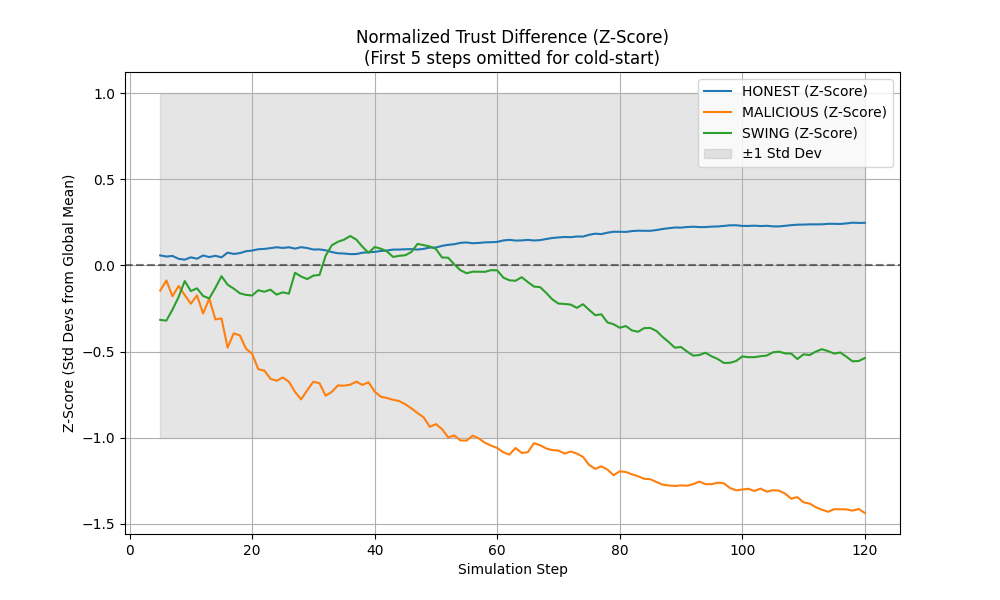
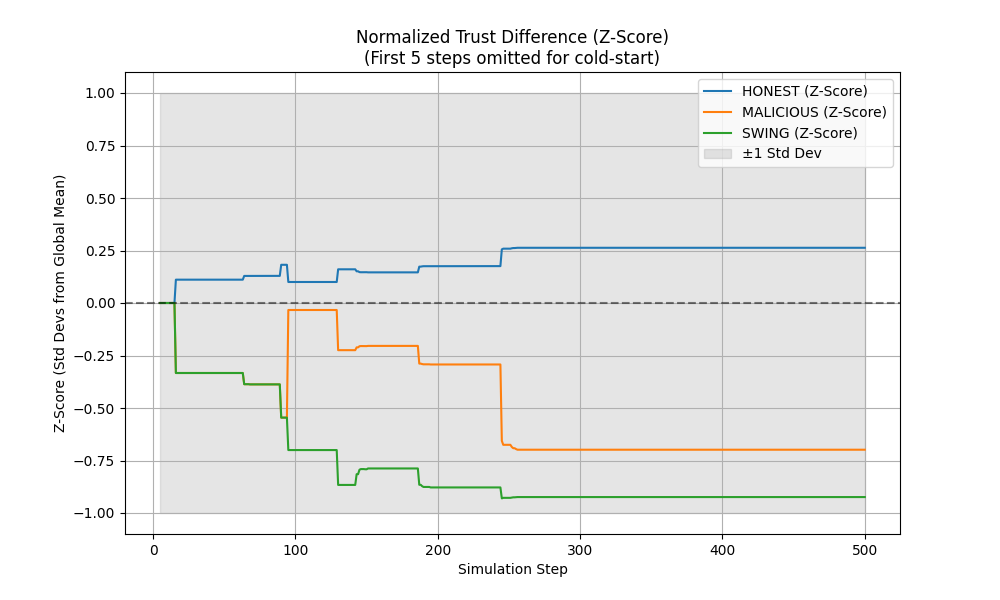
tip selection algorithm

diff --git a/iov-trust-prototype/blockchain/dag.py b/iov-trust-prototype/blockchain/dag.py
@@ -5,6 +5,7 @@ Stores trust updates.
 Not a real blockchain (no PoW/PoS, no hashing).
 """
 from typing import List, Dict
+import random
 from .block import Block
 
 class DAG:
@@ -14,25 +15,33 @@ class DAG:
         # For this prototype, we just link to the last N blocks added.
         self.tips: List[str] = [] 
 
-    def add_block(self, data, validator_id) -> Block:
+    def add_block(self, data, validator_id, n_parents: int = 2) -> Block:
         """
         Creates and adds a new block to the DAG.
-        Links to current 'tips' as parents.
+        Uses Tip Selection Algorithm (random selection of n_parents from current tips).
         """
-        # parents are the current tips. If genesis, empty list.
-        parents = list(self.tips)
+        # Tip Selection: Select n_parents from self.tips
+        available_tips = self.tips
+        if not available_tips:
+            parents = []
+        elif len(available_tips) <= n_parents:
+            parents = list(available_tips)
+        else:
+            parents = random.sample(available_tips, n_parents)
         
         new_block = Block(data, validator_id, parents)
         self.blocks[new_block.id] = new_block
         
-        # In a real DAG, tips update is complex. 
-        # Here: The new block becomes the new tip. 
-        # Optionally keep some old tips if we want width > 1.
-        # For simplicity: New block replaces all tips (linear-ish DAG) or appends.
-        # Let's keep it linear-ish for simplicity unless we want to simulate forks.
-        self.tips = [new_block.id]
+        # Update tips:
+        # Referenced parents are no longer tips (they are now confirmed/covered).
+        # The new block becomes a tip.
+        # Tips that were not selected remain tips (this creates/preserves DAG width).
+        for p_id in parents:
+            if p_id in self.tips:
+                self.tips.remove(p_id)
         
-        # print(f"DEBUG: Block {new_block.id} added by {validator_id}")
+        self.tips.append(new_block.id)
+        
         return new_block
 
     def get_history(self):

diff --git a/iov-trust-prototype/experiments/run_experiment.py b/iov-trust-prototype/experiments/run_experiment.py
@@ -5,6 +5,7 @@ Integrates Trust Model, Simulator, and Mock Blockchain.
 """
 import sys
 import os
+import numpy as np
 
 # Fix path to allow importing modules from parent directory
 sys.path.append(os.path.join(os.path.dirname(__file__), '..'))
@@ -23,6 +24,14 @@ from experiments.plots import (
     normalize_histories
 ) 
 
+# Import SUMO runner (added for integration)
+try:
+    from traci_control.run_sumo import run_sumo_simulation
+    SUMO_AVAILABLE = True
+except ImportError:
+    SUMO_AVAILABLE = False
+    print("Warning: Could not import 'traci_control.run_sumo'. Check paths if you want to use SUMO.")
+
 def calculate_statistics(vehicles, dags, partial_dags_count, total_steps):
     """
     Calculates and prints:
@@ -32,7 +41,6 @@ def calculate_statistics(vehicles, dags, partial_dags_count, total_steps):
     D. Trust Convergence Time
     E. Multi-RSU Sync Stats
     """
-    import numpy as np
     
     print("\n" + "="*50)
     print("       EXPERIMENT RESULTS & STATISTICS")
@@ -452,6 +460,17 @@ def run_comparative_study():
     print("="*50)
 
 if __name__ == "__main__":
-    #run() # Original single run
-    run_comparative_study() # New comparative run
+    if SUMO_AVAILABLE:
+        print(">> Mode: SUMO-TraCI Simulation (Primary)")
+        try:
+            run_sumo_simulation()
+        except KeyboardInterrupt:
+            print("\nSimulation Halted by User.")
+        except Exception as e:
+            print(f"\nCRITICAL ERROR in SUMO Simulation: {e}")
+            print("Falling back to Comparative Study...")
+            run_comparative_study()
+    else:
+        print(">> Mode: Synthetic Comparative Study (Fallback)")
+        run_comparative_study()
 

diff --git a/iov-trust-prototype/trust/vehicle.py b/iov-trust-prototype/trust/vehicle.py
@@ -5,12 +5,16 @@ Defines the Vehicle class which maintains its own trust parameters
 towards other vehicles (Local Trust) and its assigned Global Trust.
 """
 from typing import Dict, Tuple
+import random
 from .bayesian import compute_trust, update_parameters
 
 class Vehicle:
     BEHAVIOR_HONEST = 'HONEST'
     BEHAVIOR_MALICIOUS = 'MALICIOUS'
     BEHAVIOR_SWING = 'SWING'
+    
+    # Configuration
+    SWING_CYCLE_LENGTH = 50
 
     def __init__(self, vehicle_id: str, behavior_type: str = 'HONEST', model_type: str = 'PROPOSED', attack_intensity: float = 0.8):
         """
@@ -52,7 +56,6 @@ class Vehicle:
         Determines the outcome of an interaction initiated by another vehicle towards this vehicle.
         Returns True for a cooperative/good interaction, False for malicious/bad.
         """
-        import random
         
         if self.behavior_type == self.BEHAVIOR_HONEST:
             # 99% success rate (accidents happen)
@@ -66,8 +69,7 @@ class Vehicle:
         elif self.behavior_type == self.BEHAVIOR_SWING:
             # Swing Attacker: Oscillates behavior.
             # Intensity can affect the bad phase severity
-            cycle_length = 50
-            is_good_phase = (step_count // cycle_length) % 2 == 0
+            is_good_phase = (step_count // self.SWING_CYCLE_LENGTH) % 2 == 0
             
             if is_good_phase:
                 return random.random() < 0.99

diff --git a/iov-trust-prototype/blockchain/validator.py b/iov-trust-prototype/blockchain/validator.py
@@ -78,16 +78,3 @@ def check_consensus_simple(committee: List) -> bool:
         
     threshold = (2.0 / 3.0) * n
     return votes >= threshold
-    
-    for v in committee:
-        # Determine vote behavior
-        if v.behavior_type == 'HONEST':
-            vote = 1 # Approve valid block
-        else:
-            vote = 0 # Reject valid block (DoS) OR Approve bad block
-            
-        # Weighted vote
-        approval_mass += v.global_trust_score * vote
-        
-    # 2/3rds majority of TRUST, not nodes
-    return approval_mass >= (2/3 * total_trust_mass)

diff --git a/iov-trust-prototype/traci_control/run_sumo.py b/iov-trust-prototype/traci_control/run_sumo.py
@@ -125,7 +125,7 @@ def run_sumo_simulation():
                 if s_id in sumo_to_trust_map:
                     try:
                         vehicle_positions[sumo_to_trust_map[s_id]] = traci.vehicle.getPosition(s_id)
-                    except:
+                    except Exception:
                         pass
             
             # Pairwise check (O(N^2) but N is small ~20)
